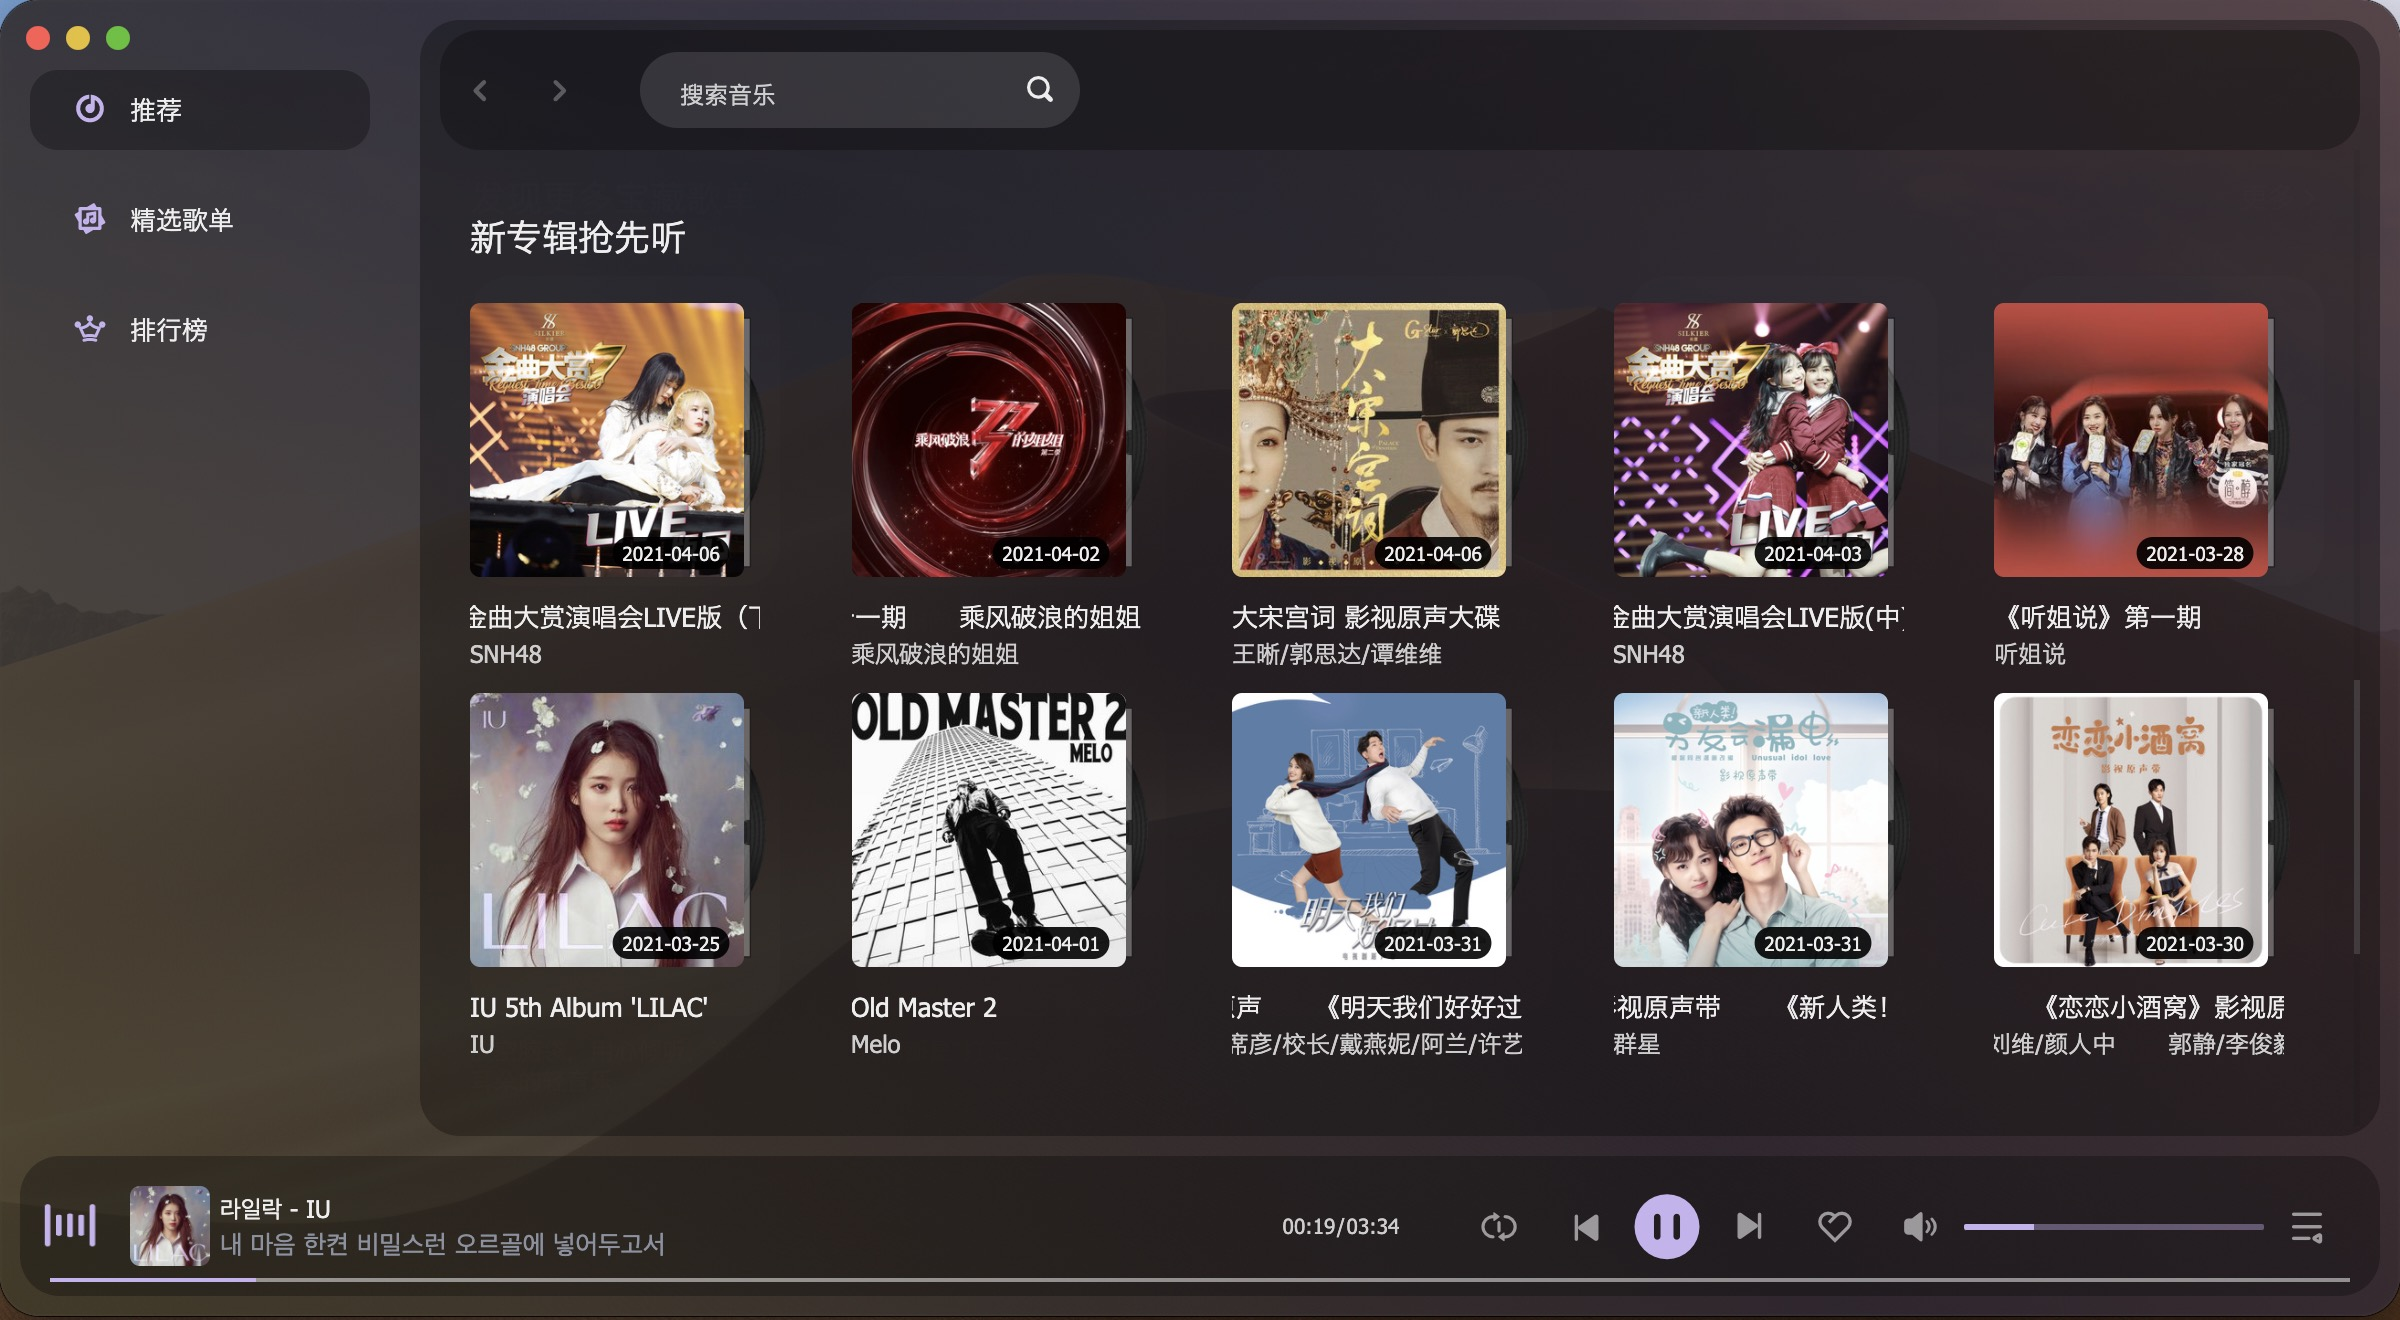
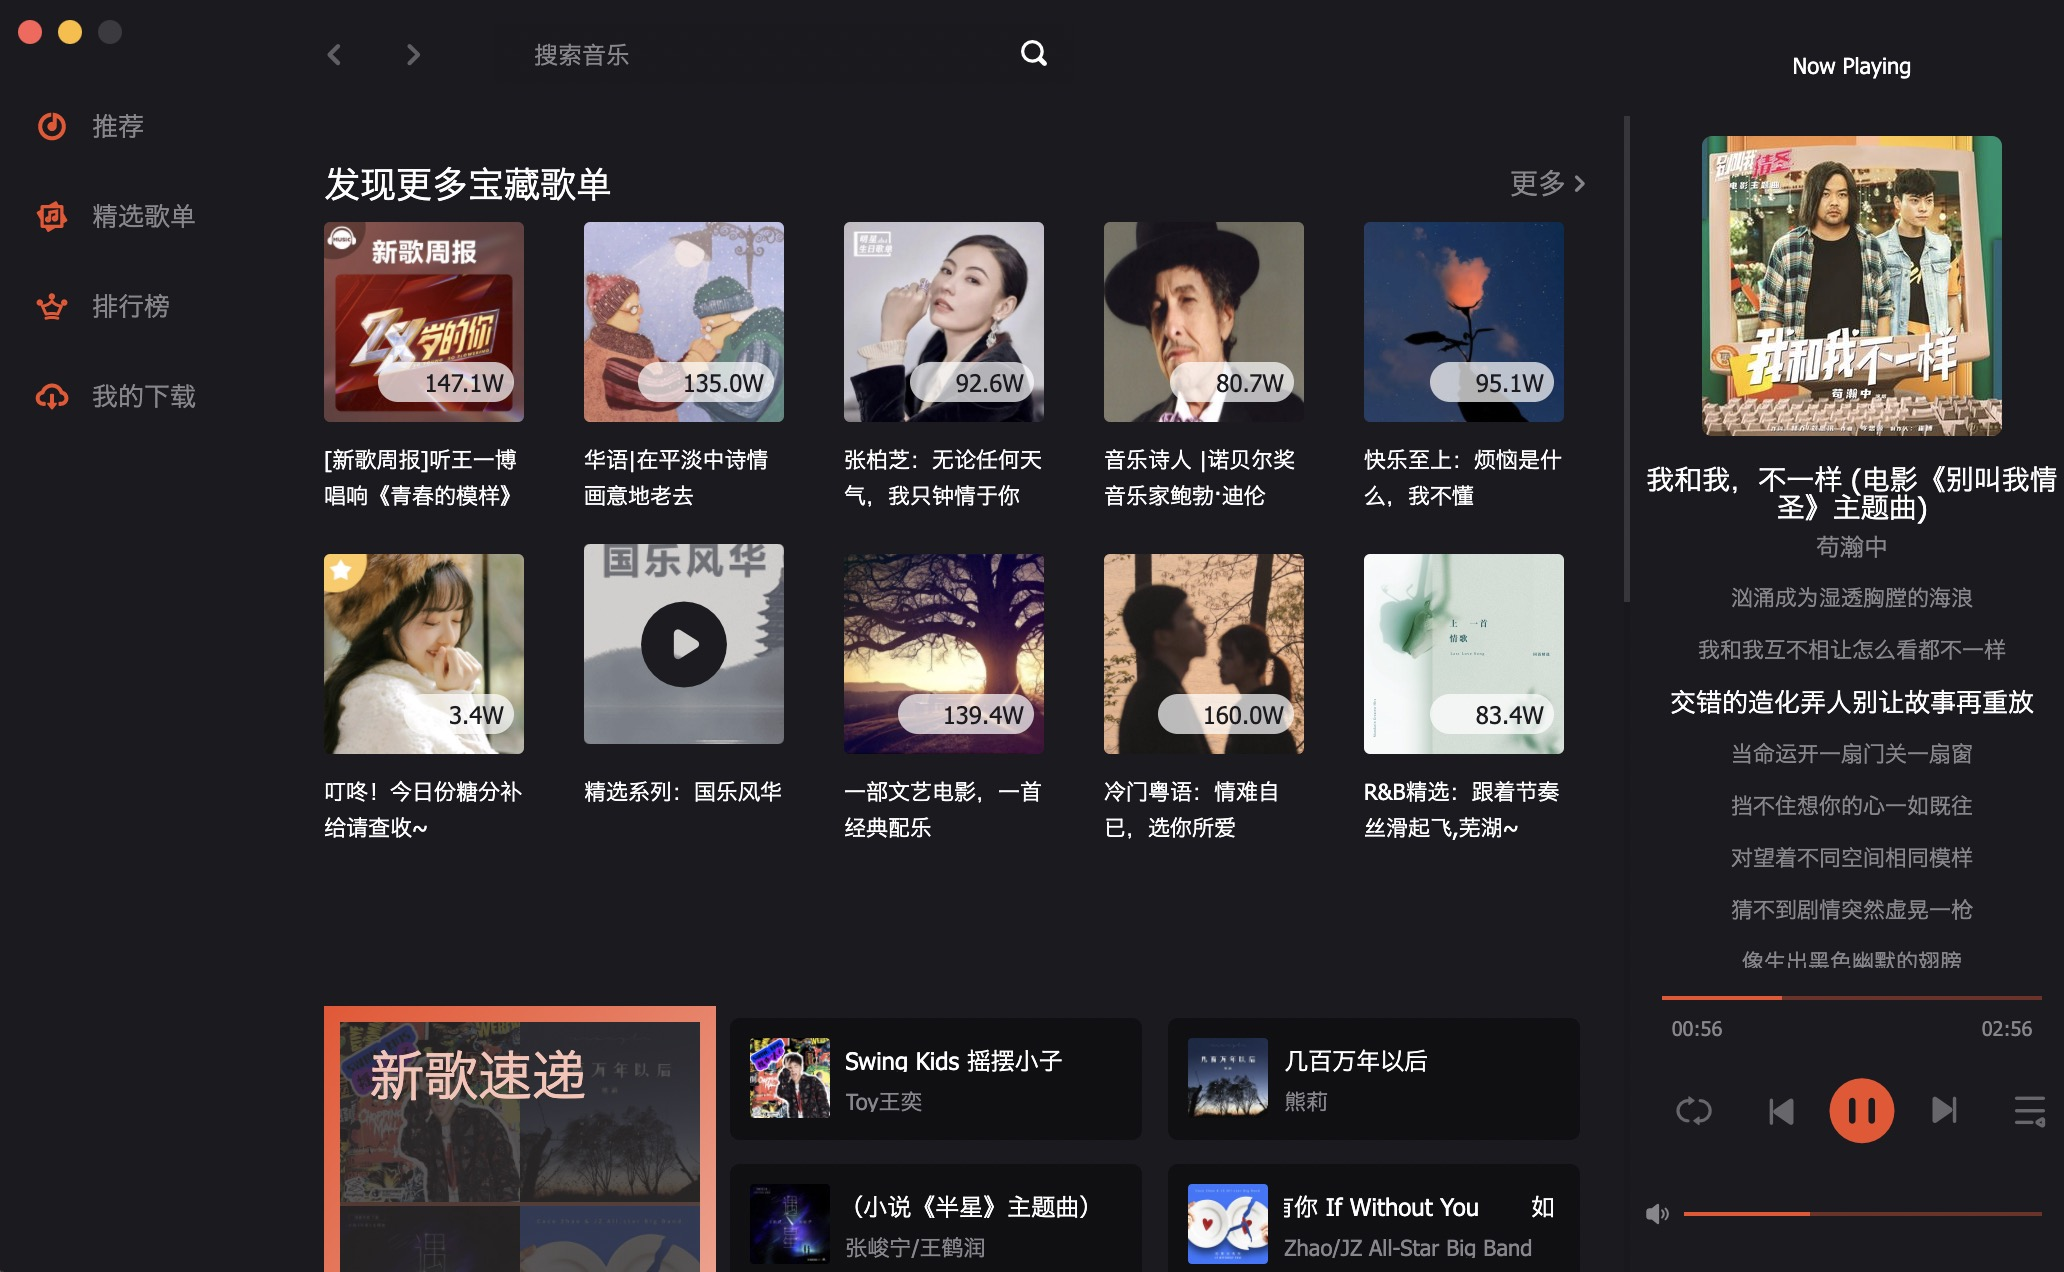
feat: 样式修改

diff --git a/src/background.ts b/src/background.ts
@@ -10,8 +10,8 @@ protocol.registerSchemesAsPrivileged([
 async function createWindow() {
   Menu.setApplicationMenu(null)
   const win = new BrowserWindow({
-    width: isDevelopment ? 1560 : 1060,
-    // width: 1060,
+    // width: isDevelopment ? 1560 : 1060,
+    width: 1060,
     height: 640,
     fullscreenable: false, // 是否允许全屏
     backgroundColor: '#00000000', // 背景颜色
@@ -22,8 +22,8 @@ async function createWindow() {
     autoHideMenuBar: true,
     title: '听青',
     webPreferences: {
-      devTools: isDevelopment,
-      // devTools: false,
+      // devTools: isDevelopment,
+      devTools: false,
       webSecurity: false, //跨域限制
       contextIsolation: false,
       enableRemoteModule: true,

diff --git a/src/assets/styles/theme/conf.scss b/src/assets/styles/theme/conf.scss
@@ -1,3 +1,3 @@
-@import './color-schemes/_dark';
+// @import './color-schemes/_dark';
 // @import './color-schemes/_default';
-// @import './color-schemes/_light';
+@import './color-schemes/_light';
